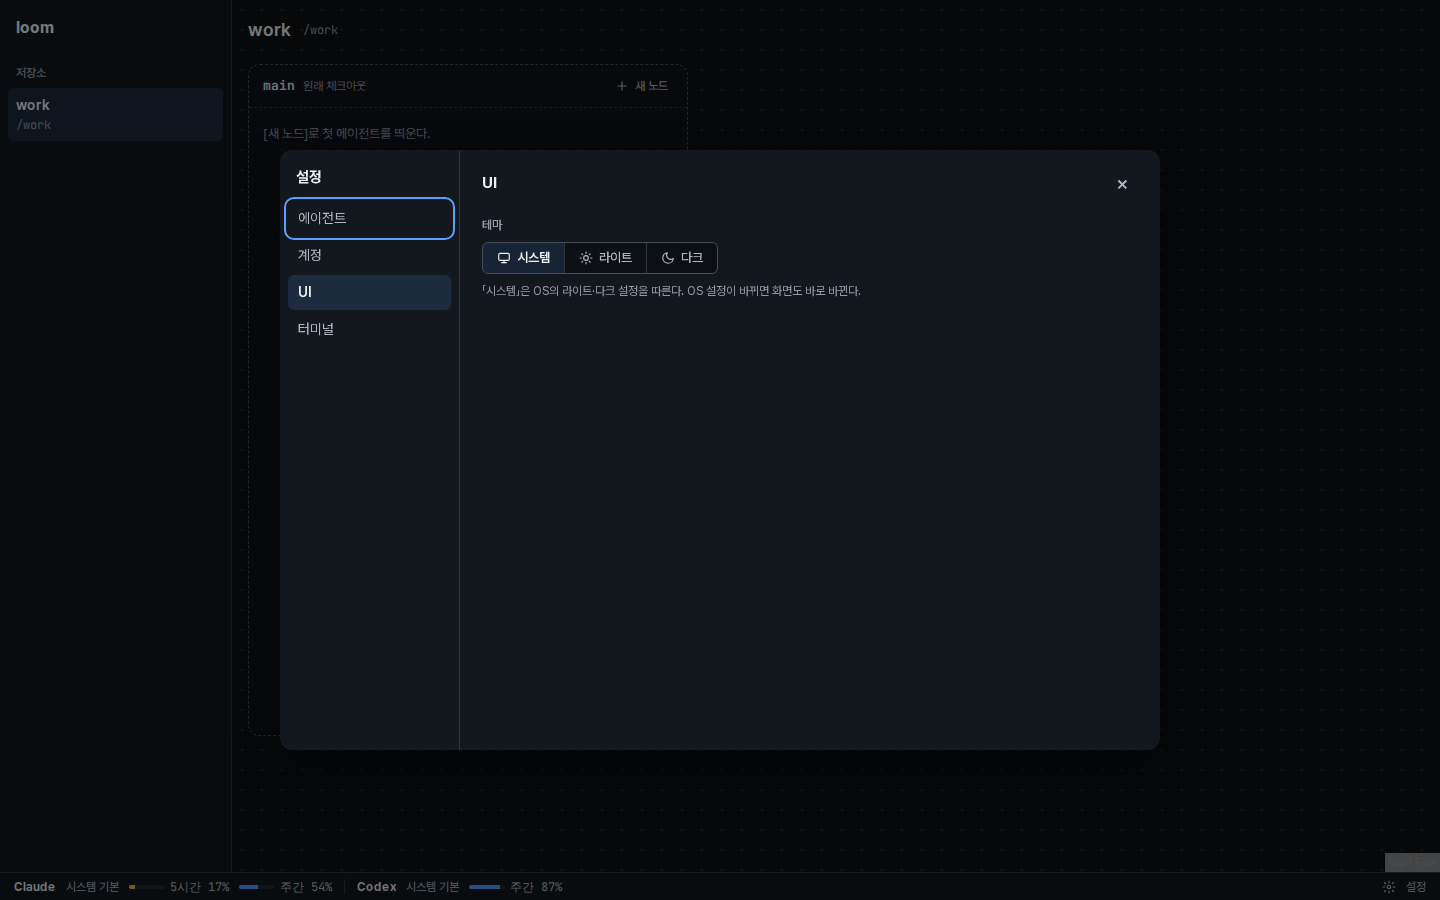
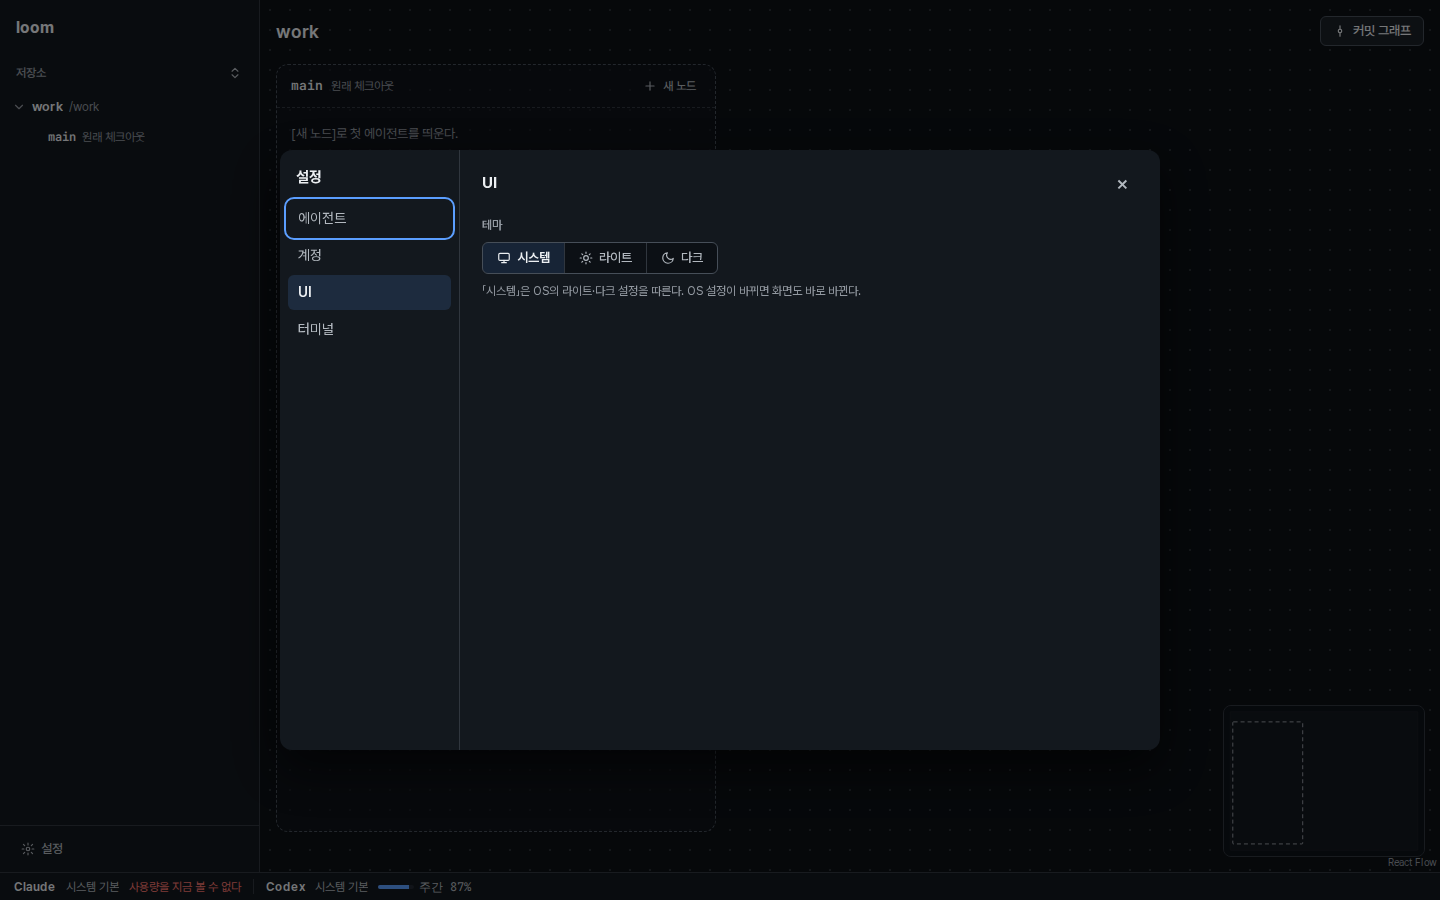
docs: 화면 언어 목업을 그림 셋으로 줄이고 새 main 화면으로 다시 찍는다

diff --git a/docs/mockups/settings.html b/docs/mockups/settings.html
@@ -521,13 +521,10 @@ test daemon::<span style="background:#deeaf9;color:#22272e">with_theme</span> ..
 
 <!-- 결정표 -->
 <section class="unit" aria-labelledby="u-lang">
-  <h2 id="u-lang">7. 설정 창 「UI」 탭: 화면 언어</h2>
-  <div class="why">
-    <b>문제점</b><span>화면 문구가 한국어로만 나온다. 데몬이 보내는 거절·오류 문장도 한국어다. 영어를 쓰는 사용자는 loom을 읽을 수 없다.</span>
-    <b>개선 사항</b><span>「UI」 탭의 「테마」 아래에 「언어」 드롭다운을 더한다. 값은 「시스템」·「English」·「한국어」다. 고르면 다시 읽지 않아도 화면 문구가 바로 바뀌고, 데몬을 다시 띄워도 남는다. Orca도 「Appearance」의 Theme 바로 아래에 같은 Language 드롭다운을 둔다.</span>
-  </div>
-  <figure style="margin-bottom:16px"><figcaption class="hint" style="font-weight:600;margin-bottom:6px">전 (현재 제품, 1440×900, 다크. 「UI」 탭에 테마만 있다)</figcaption><a class="shot" href="settings-ui-before.png" style="width:720px"><img src="settings-ui-before.png" alt="현재 loom 설정 창 「UI」 탭. 테마 선택만 있다." width="1440" height="900"></a></figure>
-  <h3 style="font-size:15px;margin:20px 0 8px">후: 「UI」 탭 (한국어)</h3>
+  <h2 id="u-lang">7. 화면 언어</h2>
+  <h3 style="font-size:15px;margin:12px 0 8px">설정 「UI」 탭 · 전</h3>
+  <a class="shot" href="settings-ui-before.png" style="width:720px"><img src="settings-ui-before.png" alt="현재 설정 창 「UI」 탭. 테마만 있다." width="1440" height="900"></a>
+  <h3 style="font-size:15px;margin:20px 0 8px">설정 「UI」 탭 · 후</h3>
   <div class="stage">
     <div class="dialog" role="dialog" aria-label="설정" style="height:320px">
       <nav>
@@ -551,54 +548,12 @@ test daemon::<span style="background:#deeaf9;color:#22272e">with_theme</span> ..
         <section>
           <h4><label for="l-lang">언어</label></h4>
           <div class="field" style="max-width:280px"><select id="l-lang"><option selected>시스템</option><option lang="en">English</option><option lang="ko">한국어</option></select></div>
-          <span class="hint">「시스템」은 브라우저 언어를 따른다. 한국어가 아니면 영어로 보인다.</span>
         </section>
       </div>
     </div>
   </div>
-  <h3 style="font-size:15px;margin:20px 0 8px">후: 「UI」 탭 (English)</h3>
-  <div class="stage" lang="en">
-    <div class="dialog" role="dialog" aria-label="Settings" style="height:320px">
-      <nav>
-        <h2>Settings</h2>
-        <button class="tab">Agents</button>
-        <button class="tab">Accounts</button>
-        <button class="tab" aria-current="page">UI</button>
-        <button class="tab">Terminal</button>
-      </nav>
-      <div class="pane">
-        <div class="pane-head"><h3>UI</h3><span class="spacer"></span><button class="btn ghost" style="font-size:20px;padding:0 8px" aria-label="Close">×</button></div>
-        <section>
-          <h4 id="l2-theme">Theme</h4>
-          <div class="choice" role="radiogroup" aria-labelledby="l2-theme">
-            <label><input type="radio" name="l2-theme" checked><svg viewBox="0 0 24 24" aria-hidden="true"><rect x="3" y="4" width="18" height="12" rx="2"/><path d="M8 20h8M12 16v4"/></svg>System</label>
-            <label><input type="radio" name="l2-theme"><svg viewBox="0 0 24 24" aria-hidden="true"><circle cx="12" cy="12" r="4"/><path d="M12 2v2M12 20v2M4.9 4.9l1.4 1.4M17.7 17.7l1.4 1.4M2 12h2M20 12h2M4.9 19.1l1.4-1.4M17.7 6.3l1.4-1.4"/></svg>Light</label>
-            <label><input type="radio" name="l2-theme"><svg viewBox="0 0 24 24" aria-hidden="true"><path d="M21 12.8A9 9 0 1 1 11.2 3a7 7 0 0 0 9.8 9.8z"/></svg>Dark</label>
-          </div>
-          <span class="hint">“System” follows the OS light or dark setting. The screen changes as soon as the OS setting changes.</span>
-        </section>
-        <section>
-          <h4><label for="l2-lang">Language</label></h4>
-          <div class="field" style="max-width:280px"><select id="l2-lang"><option>System</option><option selected>English</option><option lang="ko">한국어</option></select></div>
-          <span class="hint">“System” follows the browser language. Anything other than Korean shows English.</span>
-        </section>
-      </div>
-    </div>
-  </div>
-  <h3 style="font-size:15px;margin:20px 0 8px">영어 화면: 긴 문구가 넘치는 자리</h3>
-  <figure style="margin-bottom:12px"><figcaption class="hint" style="font-weight:600;margin-bottom:6px">현재 제품 문구를 영어 초안으로 바꿔 찍은 화면 (1440×900, 새 노드 창을 연 상태)</figcaption><a class="shot" href="i18n-en.png" style="width:720px"><img src="i18n-en.png" alt="영어로 바꾼 loom 메인 화면. 새 노드 창이 열려 있고 화면 아래에 영어 상태 줄이 있다." width="1440" height="900"></a></figure>
-  <table class="t decide">
-    <thead><tr><th>자리</th><th>영어에서 보이는 것</th><th>정한 것</th></tr></thead>
-    <tbody>
-      <tr><td>새 노드 창 계정 줄</td><td>「Account: System default · 5-hour 17% left, Weekly 54% left」가 두 줄로 넘어간다. 잘리지 않는다.</td><td>그대로 줄바꿈한다. 창 폭(320px)은 바꾸지 않는다.</td></tr>
-      <tr><td>하단 상태 줄</td><td>「System default」「5-hour」「Weekly」 때문에 약 110px 넓어진다. 1440 폭에서 남는 칸이 넉넉하다.</td><td>바꾸지 않는다.</td></tr>
-      <tr><td>설정 창 탭</td><td>「Agents」「Accounts」「Terminal」이 160px 탭 칸에 들어간다.</td><td>바꾸지 않는다.</td></tr>
-      <tr><td>언어 이름</td><td>목록의 「English」「한국어」는 화면 언어와 관계없이 그 언어로 쓴다(Orca와 같다). 「시스템」만 번역한다.</td><td>Orca를 따른다.</td></tr>
-      <tr><td>기본값</td><td>설정이 없으면 「시스템」이다.</td><td>테마 기본값과 같은 규칙이다. Orca도 목록 첫 줄이 System이다.</td></tr>
-      <tr><td>데몬 문장</td><td>새 노드 거절, 사용량 오류, 로그인 오류를 데몬이 코드로 보내고 화면이 고른 언어로 쓴다.</td><td>에이전트가 읽는 CLI 출력은 지금처럼 한국어로 둔다.</td></tr>
-    </tbody>
-  </table>
-  <p class="hint" style="margin-top:10px">점검(2026-10-19, 각 1회): impeccable detect 경고 5건은 모두 6번 단위의 Solarized 견본과 화면 틀 <code>.shell</code>이다. 6번 기록과 같은 오탐이다. 7번 단위의 경고는 0건이다. WIG: 언어 <code>select</code>는 <code>label</code>과 묶었다. 「English」「한국어」 항목에 <code>lang</code>을 달아 화면 읽기 프로그램이 그 언어로 읽는다.</p>
+  <h3 style="font-size:15px;margin:20px 0 8px">English를 고른 메인 화면 · 새 노드 창</h3>
+  <a class="shot" href="i18n-en.png" style="width:720px"><img src="i18n-en.png" alt="영어로 바뀐 메인 화면과 새 노드 창." width="1440" height="900"></a>
 </section>
 
 <section class="unit" aria-labelledby="u6">

diff --git a/web/src/locales/ko.ts b/web/src/locales/ko.ts
@@ -6,7 +6,6 @@ const ko: typeof en = {
   settings: {
     language: '언어',
     languageSystem: '시스템',
-    languageHint: '「시스템」은 브라우저 언어를 따른다. 한국어가 아니면 영어로 보인다.',
     rescan: '다시 찾기',
     versionWarning: 'app-server {{installed}} · 고정 {{pinned}} · loom 명령마다 승인을 묻는다',
   },

diff --git a/web/src/locales/en.ts b/web/src/locales/en.ts
@@ -4,7 +4,6 @@ const en = {
   settings: {
     language: 'Language',
     languageSystem: 'System',
-    languageHint: '“System” follows the browser language. Anything other than Korean shows English.',
     rescan: 'Rescan',
     versionWarning: 'app-server {{installed}} · pinned {{pinned}} · asks approval for every loom command',
   },
